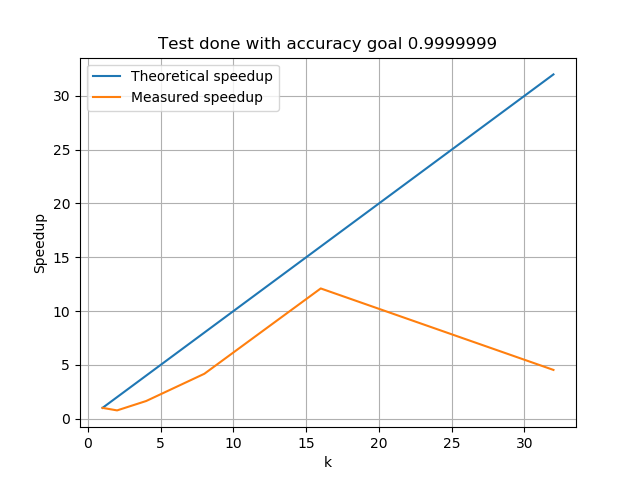
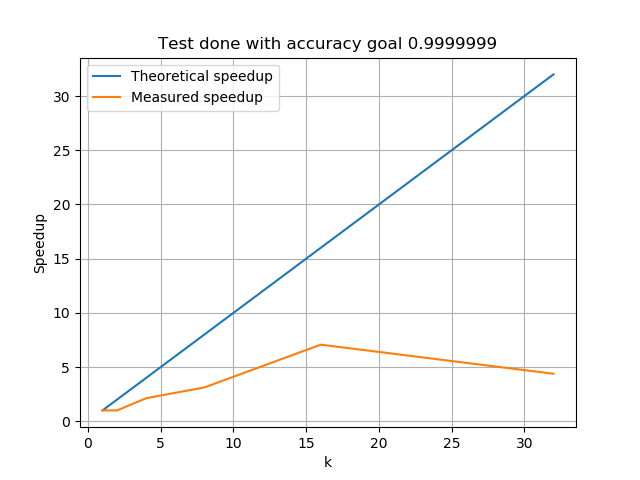
Added code for kmeans

diff --git a/Assignment 3/problem2d.py b/Assignment 3/problem2d.py
@@ -1,0 +1,252 @@
+#!/usr/bin/env python
+#
+# File: kmeans.py
+# Author: Alexander Schliep (alexander@schlieplab.org)
+#
+#
+import logging
+import argparse
+import numpy as np
+import matplotlib.pyplot as plt
+from sklearn.datasets import make_blobs
+import time
+import multiprocessing as mp
+
+def generateData(n, c):
+    logging.info(f"Generating {n} samples in {c} classes")
+    X, y = make_blobs(n_samples=n, centers = c, cluster_std=1.7, shuffle=False,
+                      random_state = 2122)
+    return X
+
+
+def nearestCentroid(datum, centroids):
+    # norm(a-b) is Euclidean distance, matrix - vector computes difference
+    # for all rows of matrix
+    dist = np.linalg.norm(centroids - datum, axis=1)
+    return np.argmin(dist), np.min(dist)
+
+# Function to assign data points to centroids.
+# Used by the worker function that in turn can be parallelized.
+def assignDataPoints(centroids, data):   
+    N = len(data)
+    k = len(centroids)
+    # The cluster index: c[i] = j indicates that i-th datum is in j-th cluster
+    c = np.zeros(N, dtype=int)
+
+    # Assign data points to nearest centroid
+    variation = np.zeros(k)
+    total_variation = 0.0
+    cluster_sizes = np.zeros(k, dtype=int)        
+    for i in range(N):
+        cluster, dist = nearestCentroid(data[i],centroids)
+        c[i] = cluster
+        cluster_sizes[cluster] += 1
+        variation[cluster] += dist**2
+    return c, variation, cluster_sizes
+
+# Function to recompute centroids.
+# Used by the worker function that in turn can be parallelized.
+def recomputeCentroids(assignments, data, k):
+    N = len(data)
+    # Recompute centroids
+    centroids = np.zeros((k,2)) # This fixes the dimension to 2
+    for i in range(N):
+        centroids[assignments[i]] += data[i]        
+    return centroids
+
+# Worker function that can be parallelized
+# Exchanges data through several queues with the kmeans function
+def worker(assign_queue, recompute_queue, assign_result_queue, recompute_result_queue):
+    while True:
+        centroids, data, i = assign_queue.get()
+        c, variation, cluster_sizes = assignDataPoints(centroids, data)
+        assign_result_queue.put((c, variation, cluster_sizes, i))
+        assignments, data, k = recompute_queue.get()
+        means = recomputeCentroids(assignments, data, k)
+        recompute_result_queue.put(means)
+
+
+def kmeans(k, data, workers, nr_iter = 100):
+    N = len(data)
+
+    # The cluster index: c[i] = j indicates that i-th datum is in j-th cluster
+    c = np.zeros(N, dtype=int)
+
+    # Choose k random data points as centroids
+    centroids = data[np.random.choice(np.array(range(N)),size=k,replace=False)]
+    logging.debug("Initial centroids\n", centroids)
+
+    # Queue for data sent to workers to assign data to clusters
+    assign_queue = mp.Queue()
+    # Queue for data sent to workers to recompute centroids
+    recompute_queue = mp.Queue()
+    # Queue for results from workers when assigning data to clusters
+    assign_result_queue = mp.Queue()
+    # Queue for results from workers when recomputing centroids
+    recompute_result_queue = mp.Queue()
+
+    # Processes are started here but are idling while waiting for data to be put on queue
+    jobs = []
+    for i in range(workers):
+        p = mp.Process(target=worker, args=(assign_queue, recompute_queue, assign_result_queue, recompute_result_queue))
+        jobs.append(p)
+        p.start()
+
+    # Create start end and ending indexes for splitting data and assignments between workers
+    indexes = []
+    for i in range(workers):
+        indexes.append( ( int((N/workers)*i) , int((N/workers)*(i+1)-1 )) )
+    # Since indexes are rounded down we add the remainder to the last worker
+    rest = N % workers
+    indexes[:-1][0] = (indexes[:-1][0][0], indexes[:-1][0][1] + rest )
+
+    logging.info("Iteration\tVariation\tDelta Variation")
+    total_variation = 0.0
+
+    for j in range(nr_iter):
+        logging.debug("=== Iteration %d ===" % (j+1))
+        
+        cluster_sizes = np.zeros(k, dtype=int)       
+
+        start = time.time()
+
+        # Send centroids and data to assign queue to make workers start assigning data points.
+        # An index is also sent to keep track on where the splice of data resides in the total data.
+        for w in range(workers):
+            assign_queue.put((centroids, data[indexes[w][0]:indexes[w][1]], w))
+        
+        # As workers are finished with assignments, process the results.
+        # Minor bottleneck here where workers cant start working on recomputing centroids
+        # until this is finished
+        old_variation = total_variation
+        total_variation = 0.0
+        for w in range(workers):
+            assignments, variation, c_sizes, i = assign_result_queue.get()
+            for t in range(len(assignments)):
+                c[int((i* (N/workers) + t))] = assignments[t]
+            for i in range(k):
+                cluster_sizes[i] += c_sizes[i]
+            total_variation += sum(variation)
+        delta_variation = -old_variation
+        delta_variation += total_variation
+        logging.info("%f\t%f" % (total_variation, delta_variation))
+
+        time_assign = time.time() - start
+        start = time.time()
+
+        # Send data and assignments to workers to make them start recomputing centroids
+        for w in range(workers):
+            recompute_queue.put((c[indexes[w][0]:indexes[w][1]], data[indexes[w][0]:indexes[w][1]], k))
+        
+        # Collect and process results from recomputation
+        centroids = np.zeros((k,2)) 
+        for w in range(workers):
+            result = recompute_result_queue.get() 
+            for i in range(k):
+                centroids[i] += result[i]
+        centroids = centroids / cluster_sizes.reshape(-1,1)
+
+        time_recompute = time.time() - start
+        
+        
+        logging.debug(cluster_sizes)
+        logging.debug(c)
+        logging.debug(centroids)
+    
+    # A more sophisticated way to do this would be to send a message to each worker
+    # from the estimator once accuracy has been reached that tells them to stop working
+    # and then running join for each worker.
+    for i in range(args.workers):
+        jobs[i].terminate()
+        logging.info("Terminated job %6d" % i)   
+   
+    assign_queue.close()
+    logging.info("Closed assign queue")
+    assign_result_queue.close()
+    logging.info("Closed assign result queue")
+    recompute_queue.close()
+    logging.info("Closed recompute queue")
+    recompute_result_queue.close()
+    logging.info("Closed recompute result queue")
+
+    assign_queue.join_thread()
+    logging.info("Joined assign queue")
+    assign_result_queue.join_thread()
+    logging.info("Joined assign result queue")
+    recompute_queue.join_thread()
+    logging.info("Joined recompute queue")
+    recompute_result_queue.join_thread()
+    logging.info("Joined recompute result queue")
+    
+    return total_variation, c
+
+
+def computeClustering(args):
+    if args.verbose:
+        logging.basicConfig(format='# %(message)s',level=logging.INFO)
+    if args.debug: 
+        logging.basicConfig(format='# %(message)s',level=logging.DEBUG)
+
+    
+    X = generateData(args.samples, args.classes)
+
+    start_time = time.time()
+    #
+    # Modify kmeans code to use args.worker parallel threads
+    total_variation, assignment = kmeans(args.k_clusters, X, args.workers, nr_iter = args.iterations)
+    #
+    #
+    end_time = time.time()
+    logging.info("Clustering complete in %3.2f [s]" % (end_time - start_time))
+    print(f"Total variation {total_variation}")
+
+    if args.plot: # Assuming 2D data
+        fig, axes = plt.subplots(nrows=1, ncols=1)
+        axes.scatter(X[:, 0], X[:, 1], c=assignment, alpha=0.2)
+        plt.title("k-means result")
+        #plt.show()        
+        fig.savefig(args.plot)
+        plt.close(fig)
+
+if __name__ == "__main__":
+    parser = argparse.ArgumentParser(
+        description='Compute a k-means clustering.',
+        epilog = 'Example: kmeans.py -v -k 4 --samples 10000 --classes 4 --plot result.png'
+    )
+    parser.add_argument('--workers', '-w',
+                        default='1',
+                        type = int,
+                        help='Number of parallel processes to use (NOT IMPLEMENTED)')
+    parser.add_argument('--k_clusters', '-k',
+                        default='3',
+                        type = int,
+                        help='Number of clusters')
+    parser.add_argument('--iterations', '-i',
+                        default='100',
+                        type = int,
+                        help='Number of iterations in k-means')
+    parser.add_argument('--samples', '-s',
+                        default='10000',
+                        type = int,
+                        help='Number of samples to generate as input')
+    parser.add_argument('--classes', '-c',
+                        default='3',
+                        type = int,
+                        help='Number of classes to generate samples from')   
+    parser.add_argument('--plot', '-p',
+                        type = str,
+                        help='Filename to plot the final result')   
+    parser.add_argument('--verbose', '-v',
+                        action='store_true',
+                        help='Print verbose diagnostic output')
+    parser.add_argument('--debug', '-d',
+                        action='store_true',
+                        help='Print debugging output')
+    parser.add_argument('--speedup', '-m',
+                        default = False,
+                        action='store_true',
+                        required=False,
+                        help='Run automatic test for speedup graph or not.')
+    args = parser.parse_args()
+    computeClustering(args)
+

diff --git a/Assignment 3/kmeans.py b/Assignment 3/kmeans.py
@@ -42,6 +42,8 @@ def kmeans(k, data, nr_iter = 100):
     for j in range(nr_iter):
         logging.debug("=== Iteration %d ===" % (j+1))
 
+        start = time.time()
+
         # Assign data points to nearest centroid
         variation = np.zeros(k)
         cluster_sizes = np.zeros(k, dtype=int)        
@@ -54,12 +56,20 @@ def kmeans(k, data, nr_iter = 100):
         total_variation = sum(variation) 
         delta_variation += total_variation
         logging.info("%3d\t\t%f\t%f" % (j, total_variation, delta_variation))
+        
+        time_assign = time.time() - start
+        print("Time to assign: %1.6f" % (time_assign))
+
+        start = time.time()
 
         # Recompute centroids
         centroids = np.zeros((k,2)) # This fixes the dimension to 2
         for i in range(N):
             centroids[c[i]] += data[i]        
         centroids = centroids / cluster_sizes.reshape(-1,1)
+
+        time_recompute = time.time() - start
+        print("Time to recompute: %1.6f" % (time_recompute))
         
         logging.debug(cluster_sizes)
         logging.debug(c)

diff --git a/Assignment 3/mp-pi-montecarlo-pool.py b/Assignment 3/mp-pi-montecarlo-pool.py
@@ -6,7 +6,7 @@ import time
 from math import pi
 import matplotlib.pyplot as plt
 
-# Each worker runs this method
+# Each worker runs this function
 def sample_pi(result_queue, seed, batch_size):
     # Using a static start seed, trying to reduce variability between runs.
     random.seed(seed)
@@ -19,6 +19,7 @@ def sample_pi(result_queue, seed, batch_size):
                 s += 1
         result_queue.put(s)    
     
+# Gathers results from each worker and calculates accuracy
 def estimator(result_queue, workers, acc_target, batch_size):
     n_total = 0
     s_total = 0
